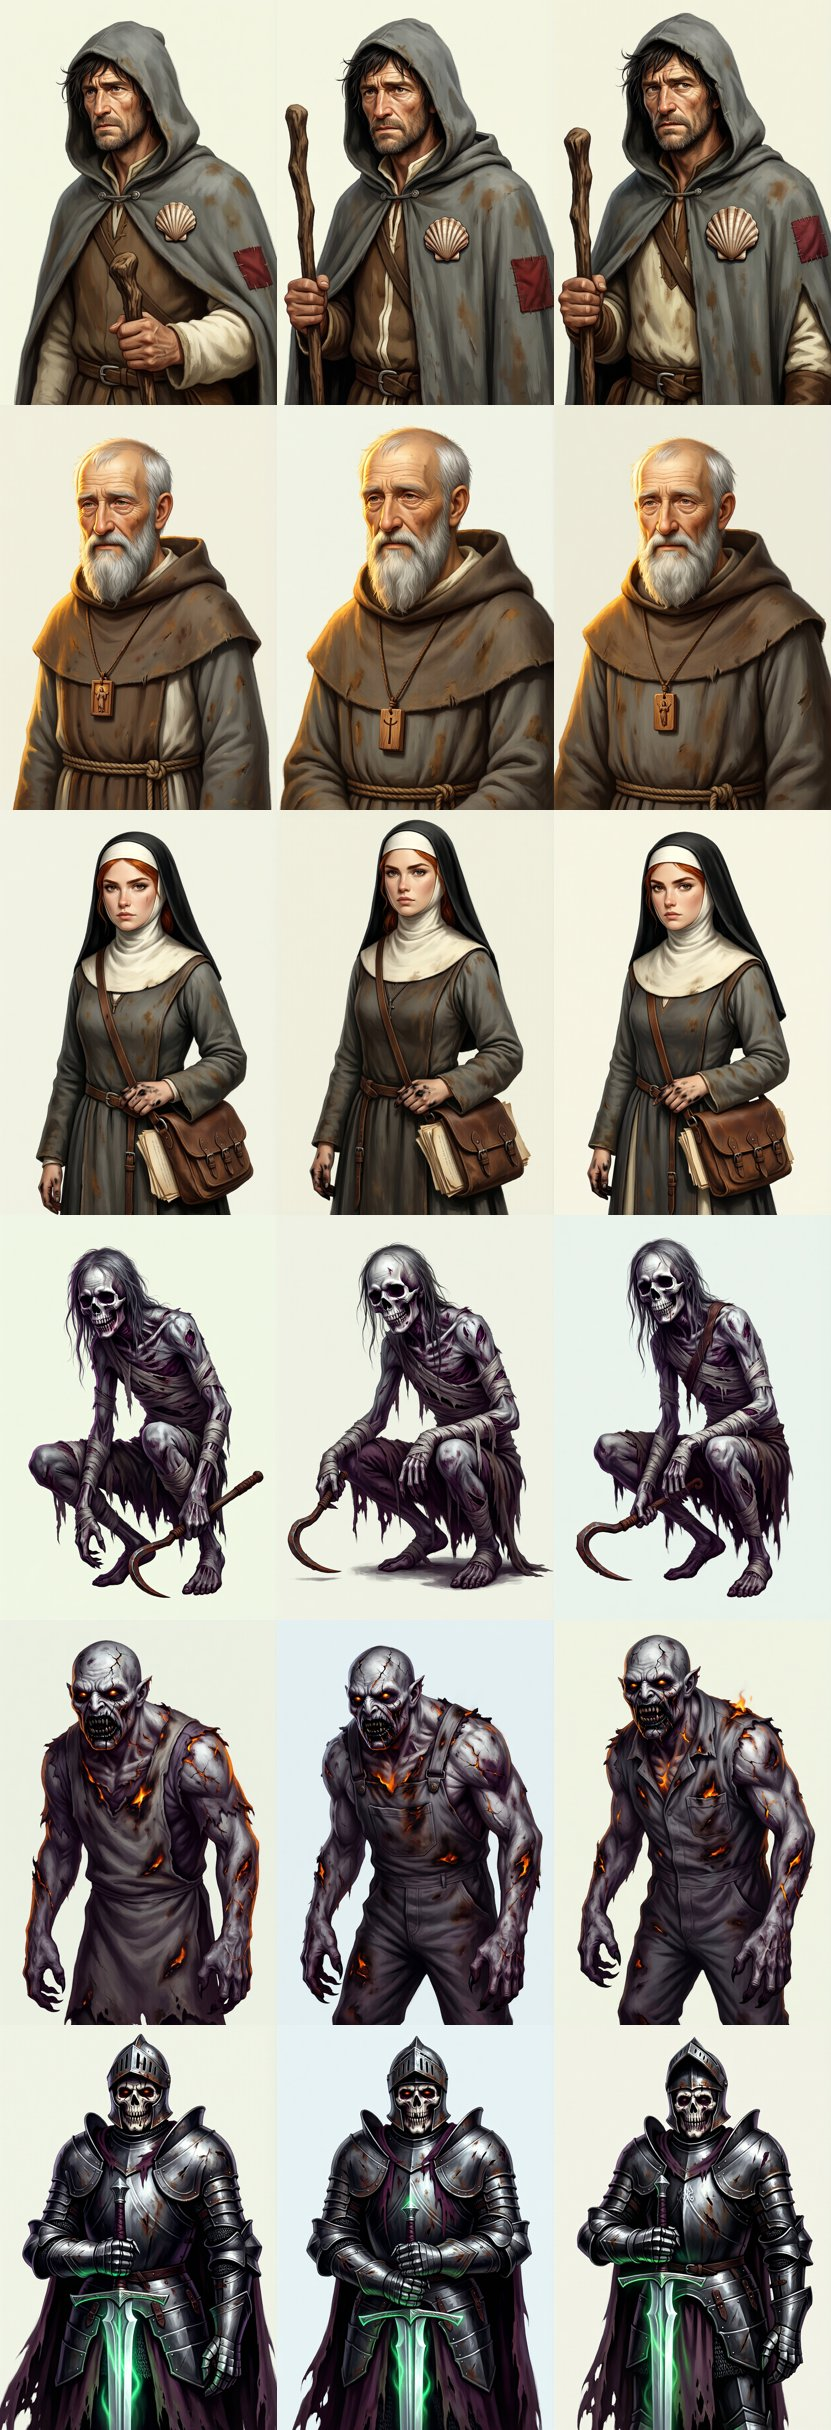
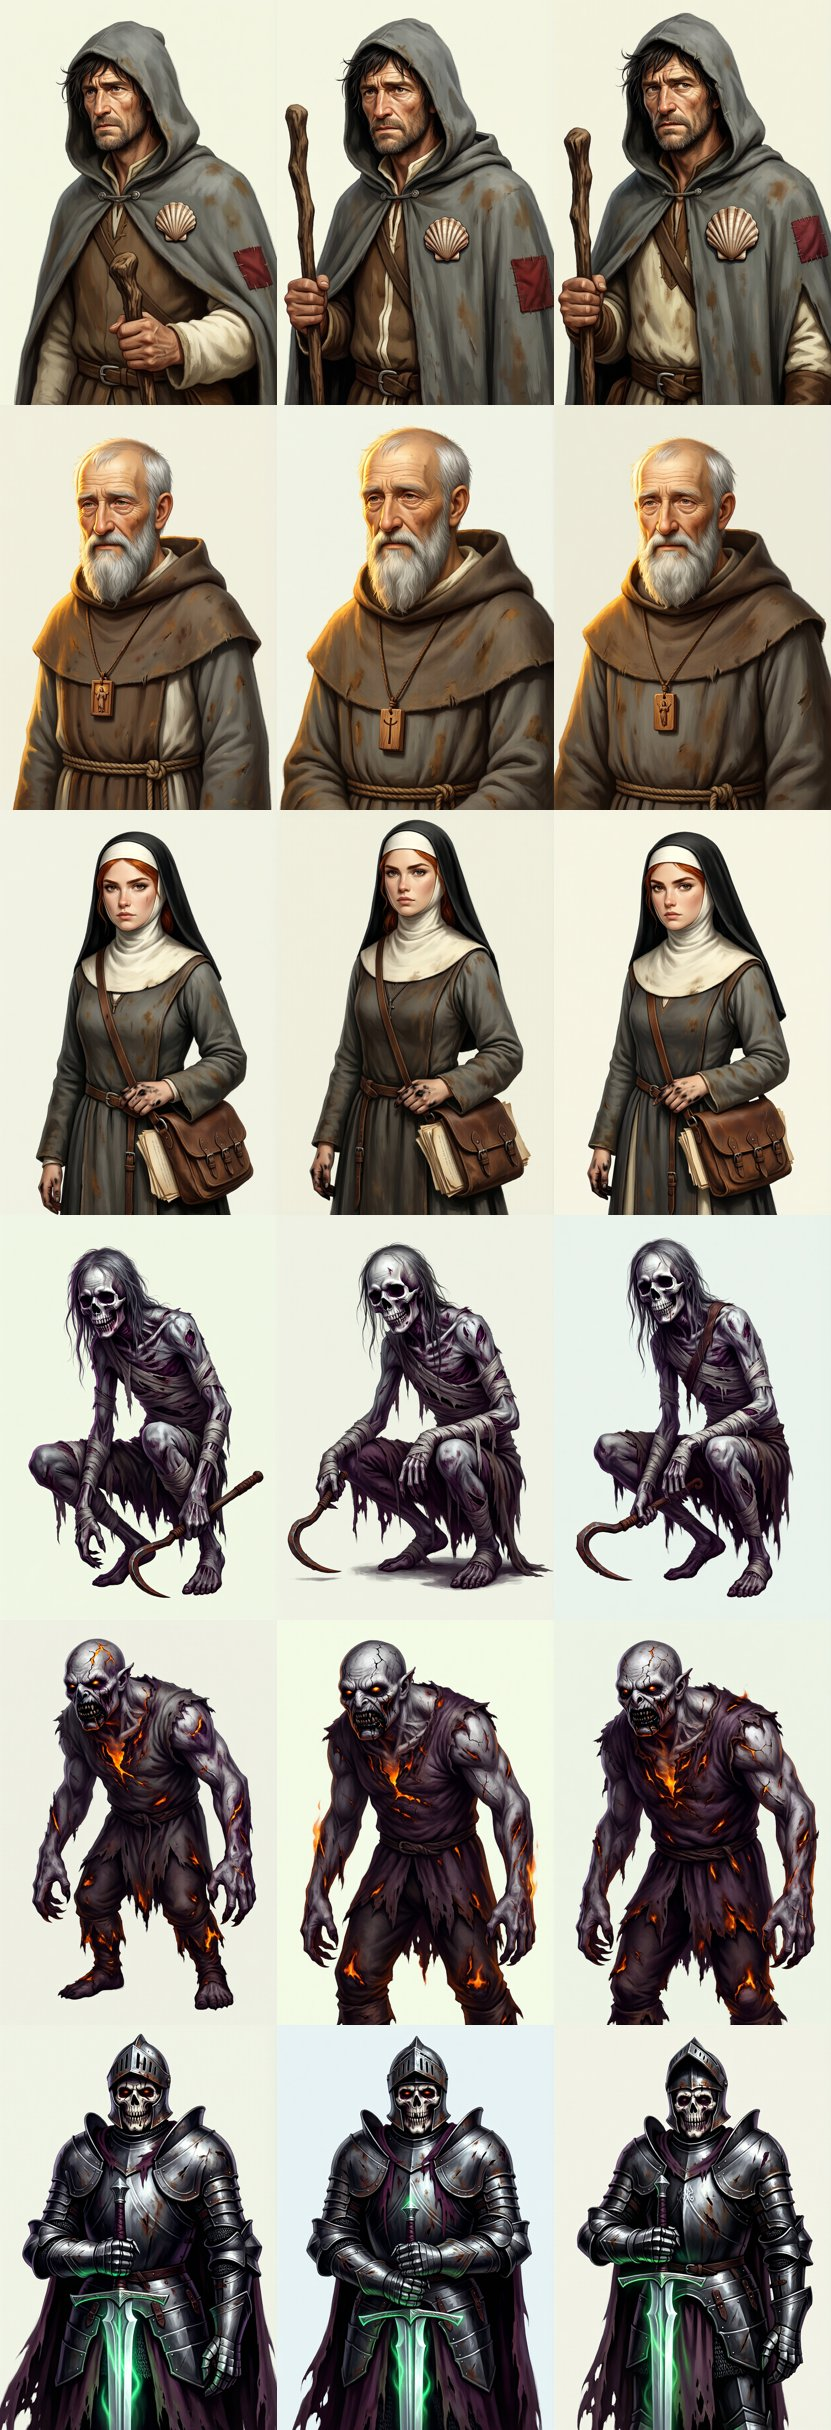
docs(b2): cast sheet with the re-rendered ghoul (period garment atom)

Changed region(s): [[0.0301, 0.6481, 0.3309, 0.8333], [0.6919, 0.6481, 0.9928, 0.8333], [0.361, 0.679, 0.6619, 0.8333]]

diff --git a/docs/living-world-slice-b2-cast-sheet.md b/docs/living-world-slice-b2-cast-sheet.md
@@ -26,11 +26,13 @@ Coordinator reading, before the gate:
   over a white coif where the atom says "plain white veil" — the gate's veil
   question will decide, and the contract may need the word "wimple-less" made
   explicit as a must_not.
-- **Ash Ghoul:** "the charred remnants of a plain sexton's work tunic" was read
-  by the model as a modern work shirt and overalls. That is a contract-authoring
-  lesson, not a model failure: "work tunic" is one paraphrase from "work
-  clothes". The atom will be rewritten as a period garment ("a burnt,
-  threadbare medieval tunic and hose") and `no_modern` raised to required.
+- **Ash Ghoul:** the first contract render read "the charred remnants of a
+  plain sexton's work tunic" as a modern work shirt and overalls — a
+  contract-authoring lesson, not a model failure ("work tunic" is one paraphrase
+  from "work clothes"). The atom was rewritten as a period garment ("a burnt,
+  threadbare medieval tunic and hose, charred at the hems"), a required
+  must_not for modern clothes added, and the ghoul re-rendered: the row above
+  is that second render, on contract.
 
 ## First sheet — hand-written slot descriptions (superseded)
 
